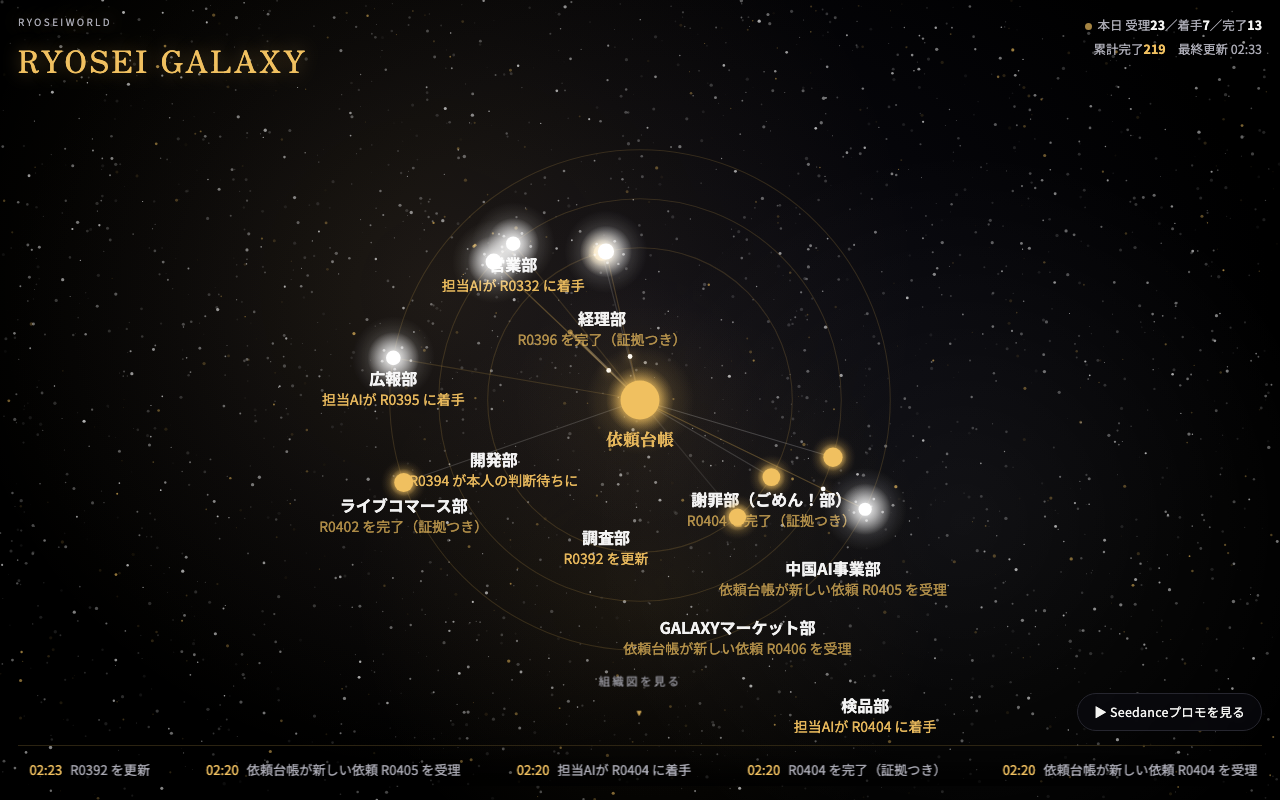
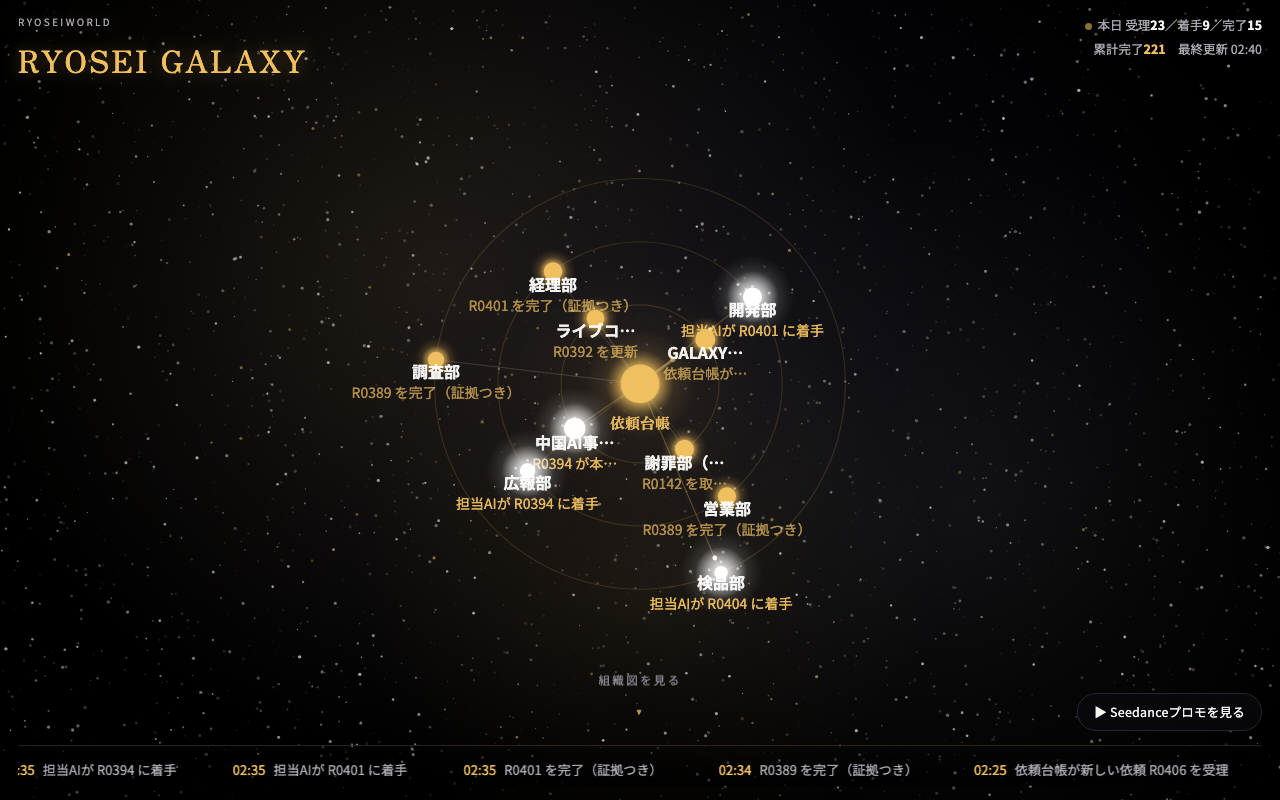
v2 review pass 3: fix labels to nodes, adaptive ring geometry, no overlaps
Claude-Session: https://claude.ai/code/session_017jk5o1QXdgjpUc5kA5BBkU

diff --git a/index.html b/index.html
@@ -493,18 +493,42 @@
   var canvas = document.getElementById('galaxy');
   var ctx = canvas.getContext('2d');
   var dpr = Math.min(window.devicePixelRatio || 1, 2);
-  var W = 0, H = 0, CX = 0, CY = 0;
+  var W = 0, H = 0, CX = 0, CY = 0, MAX_ORBIT_R = 0, IS_MOBILE_LAYOUT = false;
   var reduceMotion = window.matchMedia && window.matchMedia('(prefers-reduced-motion: reduce)').matches;
+  window.__RG_DEBUG = { labelRects: [], excludeRects: [] };
+
+  // ボタン/HUDと絶対に重ねないよう、実際のDOM矩形からCanvasの安全な描画範囲を逆算する
+  function computeSafeZone(){
+    var stageRect = document.getElementById('stage').getBoundingClientRect();
+    var topRect = document.querySelector('.hud-top').getBoundingClientRect();
+    var bottomRect = document.querySelector('.hud-bottom').getBoundingClientRect();
+    var hintRect = document.getElementById('scrollHint').getBoundingClientRect();
+    var safeTop = topRect.bottom - stageRect.top + 26;
+    var safeBottomA = bottomRect.top - stageRect.top;
+    var safeBottomB = hintRect.top - stageRect.top;
+    var safeBottom = Math.min(safeBottomA, safeBottomB) - 14;
+    return { safeTop: safeTop, safeBottom: Math.max(safeBottom, safeTop + 80) };
+  }
 
   function resize(){
     var rect = document.getElementById('stage').getBoundingClientRect();
     W = rect.width; H = rect.height;
-    CX = W / 2; CY = H / 2;
     canvas.width = Math.round(W * dpr);
     canvas.height = Math.round(H * dpr);
     canvas.style.width = W + 'px';
     canvas.style.height = H + 'px';
     ctx.setTransform(dpr, 0, 0, dpr, 0, 0);
+
+    IS_MOBILE_LAYOUT = W < 600;
+    var zone = computeSafeZone();
+    CX = W / 2;
+    CY = (zone.safeTop + zone.safeBottom) / 2;
+    var vertBudget = (zone.safeBottom - zone.safeTop) / 2;
+    var horizBudget = W / 2 - (IS_MOBILE_LAYOUT ? 14 : 100);
+    var labelReserve = IS_MOBILE_LAYOUT ? 26 : 66; // ノード半径+ラベル分の余白
+    MAX_ORBIT_R = Math.max(60, Math.min(vertBudget, horizBudget) - labelReserve);
+    window.__RG_DEBUG.geometry = {W:W, H:H, CX:CX, CY:CY, MAX_ORBIT_R:MAX_ORBIT_R, IS_MOBILE_LAYOUT:IS_MOBILE_LAYOUT, vertBudget:vertBudget, horizBudget:horizBudget};
+
     layoutNodes();
   }
 
@@ -557,14 +581,55 @@
     });
   }
 
-  /* ================= 部署ノード（軌道・2〜3段リングでラベル衝突を回避） ================= */
+  /* ================= 部署ノード（3リング・4/4/3配置で均等角） =================
+     ラベルは常にノード直下・固定オフセットで動かさない方針のため、
+     リング半径はラベルの縦方向の届く範囲（reach）とハブラベルの届く範囲から逆算する。
+     同一リング内は全ノードが同じ角速度で回転する（相対角度が変わらないため、
+     一度重ならない間隔で並べれば以後も重ならない）。 */
   var nodes = [];
+  var RINGS = [];
+  var LABEL_NAME_SIZE = 16, LABEL_SUB_SIZE = 14;
+  var LABEL_ANCHOR_GAP = 10; // デスクトップのノード⇄ラベル間ギャップ
+  var LABEL_ANCHOR_GAP_MOBILE = 6;
+  var HUB_FONT_SIZE = 15, HUB_ANCHOR_GAP = 10;
+  var SHOW_HUB_LABEL_MOBILE = false; // モバイルは幅が狭いためハブの常時テキストは省略（タップカードで表示）
+
+  function computeRings(){
+    var nodeR = 9;
+    var anchorGap = IS_MOBILE_LAYOUT ? LABEL_ANCHOR_GAP_MOBILE : LABEL_ANCHOR_GAP;
+    var reach = nodeR + anchorGap + LABEL_NAME_SIZE + (IS_MOBILE_LAYOUT ? 0 : (6 + LABEL_SUB_SIZE));
+    var hubReach = IS_MOBILE_LAYOUT
+      ? (SHOW_HUB_LABEL_MOBILE ? (20 + HUB_ANCHOR_GAP + HUB_FONT_SIZE) : (20 + 8))
+      : (20 + HUB_ANCHOR_GAP + HUB_FONT_SIZE);
+    var margin = IS_MOBILE_LAYOUT ? 12 : 34; // ハブ⇄内リング・リング間の余裕（斜め方向のラベル幅も考慮した保険）
+    var innerFactor = Math.max(0.30, Math.min(0.62, (hubReach + margin) / MAX_ORBIT_R));
+
+    // 内リングから外側へ、均等な間隔(gap)で中リング・外リングを置く。
+    // 予算が足りない場合は間隔を均等に縮めて破綻(重なり)しないようにする。
+    var idealGap = (reach + margin) / MAX_ORBIT_R;
+    var span = 1.0 - innerFactor;
+    var gap = Math.min(idealGap, span / 2);
+    var midFactor = innerFactor + gap;
+    var outerFactor = midFactor + gap;
+
+    // 45度刻みの軸(0/90/180/270度)に乗るとラベルがハブや隣接ノードの直線上に来て
+    // わずかな余白しか残らないため、各リングの初期位相を軸からずらす。
+    return [
+      { count:4, rFactor:innerFactor, speed: 0.00009,  phase:0.5  },
+      { count:4, rFactor:midFactor,   speed:-0.00007,  phase:1.28 },
+      { count:3, rFactor:outerFactor, speed: 0.00006,  phase:0.85 }
+    ];
+  }
+
   function layoutNodes(){
-    var minSide = Math.min(W, H);
-    var orbitR = minSide * 0.34;
-    var n = DEPTS.length - 1; // ハブ以外
-    var isMobileLayout = minSide < 500 || W < 600;
-    var ringR = isMobileLayout ? [0.48, 0.72, 0.98] : [0.56, 0.74, 0.92]; // 3段リング
+    RINGS = computeRings();
+    var deptIdx = 0;
+    var ringOf = []; // depts(ハブ除く)を順番にリングへ配る
+    RINGS.forEach(function(ring, ringI){
+      for(var k=0;k<ring.count;k++){
+        ringOf.push({ ring:ringI, slot:k });
+      }
+    });
     nodes = DEPTS.map(function(d, i){
       var prev = nodes[i];
       if(i === HUB_INDEX){
@@ -573,24 +638,50 @@
           state:'idle', pulse:0, burst:[], since:0, current:'', shuttleSeed: Math.random()*10
         };
       }
-      var idx = i;
-      var ring = idx % 3;
-      var angle = prev ? prev.angle : (idx / n) * Math.PI * 2 + ring * 0.35;
-      var r = orbitR * ringR[ring];
+      var place = ringOf[deptIdx]; deptIdx++;
+      var ringDef = RINGS[place.ring];
+      var angleStep = (Math.PI*2) / ringDef.count;
+      var angle = (place.slot * angleStep) + ringDef.phase;
+      var r = MAX_ORBIT_R * ringDef.rFactor;
+      // 同一リングの隣接ノード間の弦長からラベル最大幅を逆算（同一リング内の重なりを構造的に防ぐ）
+      var chord = 2 * r * Math.sin(Math.PI / ringDef.count);
+      var chordLabelLimit = Math.max(46, chord - 22);
       return {
         def:d, isHub:false,
         angle: angle,
         radius: r,
-        speed: (0.00010 + (idx % 5) * 0.00003) * (idx % 2 === 0 ? 1 : -1),
+        speed: ringDef.speed,
         x:0, y:0,
         state: prev ? prev.state : 'idle',
         current: prev ? prev.current : '',
         since: prev ? prev.since : 0,
         pulse: prev ? prev.pulse : Math.random()*Math.PI*2,
         burst: prev ? prev.burst : [],
-        shuttleSeed: prev ? prev.shuttleSeed : Math.random()*10
+        shuttleSeed: prev ? prev.shuttleSeed : Math.random()*10,
+        chordLabelLimit: chordLabelLimit
       };
     });
+  }
+
+  // 万一の取りこぼし（リサイズ直後等）向けの保険。定常状態では同一角速度により発火しない想定
+  function applyRepulsion(dt){
+    if(reduceMotion) return;
+    var minDist = IS_MOBILE_LAYOUT ? 40 : 60;
+    var k = 0.0000032;
+    for(var a=0;a<nodes.length;a++){
+      if(nodes[a].isHub) continue;
+      for(var b=a+1;b<nodes.length;b++){
+        if(nodes[b].isHub) continue;
+        var na = nodes[a], nb = nodes[b];
+        var dx = nb.x - na.x, dy = nb.y - na.y;
+        var dist = Math.sqrt(dx*dx + dy*dy) || 1;
+        if(dist >= minDist) continue;
+        var push = (minDist - dist) * k * dt;
+        var ra = na.radius || 1, rb = nb.radius || 1;
+        na.angle -= push * (60 / ra);
+        nb.angle += push * (60 / rb);
+      }
+    }
   }
 
   /* ================= イベント再生（ビーム・バースト） ================= */
@@ -739,26 +830,6 @@
     });
   }
 
-  /* ================= ラベル衝突回避 ================= */
-  var placedLabelsRef = []; // draw()内で毎フレーム差し替えられる参照
-  function placeLabel(x, textWidth, baseY, height){
-    var y = baseY;
-    var tries = 0;
-    var pad = 10;
-    while(tries < 12){
-      var overlap = placedLabelsRef.some(function(rect){
-        var overlapX = !(x + textWidth/2 + pad < rect.x - rect.w/2 || x - textWidth/2 - pad > rect.x + rect.w/2);
-        var overlapY = Math.abs(y - rect.y) < height;
-        return overlapX && overlapY;
-      });
-      if(!overlap) break;
-      y += height;
-      tries++;
-    }
-    placedLabelsRef.push({x:x, y:y, w:textWidth});
-    return y;
-  }
-
   function truncateToWidth(ctx2, text, maxWidth){
     if(ctx2.measureText(text).width <= maxWidth) return text;
     var t = text;
@@ -776,6 +847,7 @@
     lastFrame = now;
 
     ctx.clearRect(0, 0, W, H);
+    var minSide = Math.min(W, H);
 
     // 星雲（背景の帯・ゆっくり回転・呼吸）
     drawNebulae(now);
@@ -807,13 +879,10 @@
 
     // 軌道線
     ctx.lineWidth = 1.1;
-    var minSide = Math.min(W, H);
-    var orbitR = minSide * 0.34;
-    var ringR = (minSide < 500 || W < 600) ? [0.48, 0.72, 0.98] : [0.56, 0.74, 0.92];
-    for(var oi=0; oi<3; oi++){
+    for(var oi=0; oi<RINGS.length; oi++){
       ctx.strokeStyle = 'rgba(240,192,96,0.16)';
       ctx.beginPath();
-      ctx.arc(CX, CY, orbitR * ringR[oi], 0, Math.PI*2);
+      ctx.arc(CX, CY, MAX_ORBIT_R * RINGS[oi].rFactor, 0, Math.PI*2);
       ctx.stroke();
     }
 
@@ -827,6 +896,13 @@
       if(!reduceMotion) n.angle += n.speed * dt;
       n.x = CX + Math.cos(n.angle) * n.radius;
       n.y = CY + Math.sin(n.angle) * n.radius;
+    }
+    applyRepulsion(dt);
+    for(i=0;i<nodes.length;i++){
+      var np = nodes[i];
+      if(np.isHub) continue;
+      np.x = CX + Math.cos(np.angle) * np.radius;
+      np.y = CY + Math.sin(np.angle) * np.radius;
     }
 
     // 接続線（ハブ⇄各ノード、常時見える濃さで明滅）
@@ -911,10 +987,7 @@
     });
 
     // ノード描画
-    placedLabelsRef = []; // ラベル衝突回避用（このフレームでの配置済み矩形）
-    var hubNode = nodes[HUB_INDEX];
-    ctx.font = 'bold 17px "Zen Old Mincho", serif';
-    placedLabelsRef.push({x:hubNode.x, y:hubNode.y + 46, w: ctx.measureText('依頼台帳').width});
+    window.__RG_DEBUG.labelRects = []; // このフレームで実際に描いたラベル矩形（検証用）
     for(i=0;i<nodes.length;i++){
       var node = nodes[i];
       node.pulse += (node.state === 'working' ? 0.05 : 0.018) * (dt/16.7);
@@ -990,35 +1063,49 @@
         return true;
       });
 
-      // ラベル（部署名16px白＋状態行14px、重なる場合は下にずらす）
+      // ラベル: 常にノード直下・固定オフセットで動かさない（衝突は事前のリング半径設計で回避）
       if(!node.isHub){
-        var nameSize = 16;
-        var subSize = 14;
-        var maxLabelWidth = W < 600 ? Math.min(W * 0.34, 150) : Math.min(W * 0.42, 230);
-        ctx.font = 'bold ' + nameSize + 'px "Noto Sans JP", sans-serif';
-        var nameText = truncateToWidth(ctx, node.def.name, maxLabelWidth);
-        var nameWidth = ctx.measureText(nameText).width;
-        var stateLabel = node.state === 'working' ? '稼働中' : (node.state === 'done' ? '完了直後' : '待機中');
-        ctx.font = subSize + 'px "Noto Sans JP", sans-serif';
-        var subText = truncateToWidth(ctx, (node.current ? node.current : stateLabel), maxLabelWidth);
-        var subWidth = ctx.measureText(subText).width;
-        var textWidth = Math.max(nameWidth, subWidth);
-        var lineH = nameSize + subSize + 8;
-        var baseY = node.y + r + 20;
-        var placedY = placeLabel(node.x, textWidth, baseY, lineH + 6);
+        var nameSize = LABEL_NAME_SIZE;
+        var subSize = LABEL_SUB_SIZE;
+        var globalMax = IS_MOBILE_LAYOUT ? Math.min(W * 0.30, 128) : Math.min(W * 0.42, 230);
+        var maxLabelWidth = Math.min(globalMax, node.chordLabelLimit || globalMax);
+        var anchorGapNow = IS_MOBILE_LAYOUT ? LABEL_ANCHOR_GAP_MOBILE : LABEL_ANCHOR_GAP;
+        var anchorY = node.y + r + anchorGapNow; // 固定オフセット（動かして逃がさない）
 
         ctx.textAlign = 'center';
         ctx.font = 'bold ' + nameSize + 'px "Noto Sans JP", sans-serif';
+        var nameText = truncateToWidth(ctx, node.def.name, maxLabelWidth);
+        var nameWidth = ctx.measureText(nameText).width;
         ctx.fillStyle = 'rgba(255,255,255,0.95)';
-        ctx.fillText(nameText, node.x, placedY);
-        ctx.font = subSize + 'px "Noto Sans JP", sans-serif';
-        ctx.fillStyle = node.state === 'working' ? 'rgba(240,192,96,0.95)' : 'rgba(240,192,96,0.7)';
-        ctx.fillText(subText, node.x, placedY + subSize + 6);
-      } else {
-        ctx.font = 'bold 17px "Zen Old Mincho", serif';
+        ctx.fillText(nameText, node.x, anchorY);
+        window.__RG_DEBUG.labelRects.push({
+          dept: node.def.name,
+          x: node.x - nameWidth/2, y: anchorY - nameSize, w: nameWidth, h: nameSize
+        });
+
+        if(!IS_MOBILE_LAYOUT){
+          // デスクトップのみ状態行（部署名の1行下）を表示
+          var stateLabel = node.state === 'working' ? '稼働中' : (node.state === 'done' ? '完了直後' : '待機中');
+          ctx.font = subSize + 'px "Noto Sans JP", sans-serif';
+          var subText = truncateToWidth(ctx, (node.current ? node.current : stateLabel), maxLabelWidth);
+          var subWidth = ctx.measureText(subText).width;
+          var subY = anchorY + subSize + 6;
+          ctx.fillStyle = node.state === 'working' ? 'rgba(240,192,96,0.95)' : 'rgba(240,192,96,0.7)';
+          ctx.fillText(subText, node.x, subY);
+          window.__RG_DEBUG.labelRects.push({
+            dept: node.def.name + ':sub',
+            x: node.x - subWidth/2, y: subY - subSize, w: subWidth, h: subSize
+          });
+        }
+      } else if(!IS_MOBILE_LAYOUT || SHOW_HUB_LABEL_MOBILE) {
+        var hubAnchorY = node.y + baseR + HUB_ANCHOR_GAP + HUB_FONT_SIZE;
+        ctx.font = 'bold ' + HUB_FONT_SIZE + 'px "Zen Old Mincho", serif';
         ctx.fillStyle = 'rgba(240,192,96,0.95)';
         ctx.textAlign = 'center';
-        ctx.fillText('依頼台帳', node.x, node.y + 46);
+        var hubText = '依頼台帳';
+        var hubW = ctx.measureText(hubText).width;
+        ctx.fillText(hubText, node.x, hubAnchorY);
+        window.__RG_DEBUG.labelRects.push({dept:'ハブ', x: node.x - hubW/2, y: hubAnchorY - HUB_FONT_SIZE, w: hubW, h: HUB_FONT_SIZE});
       }
     }
 
